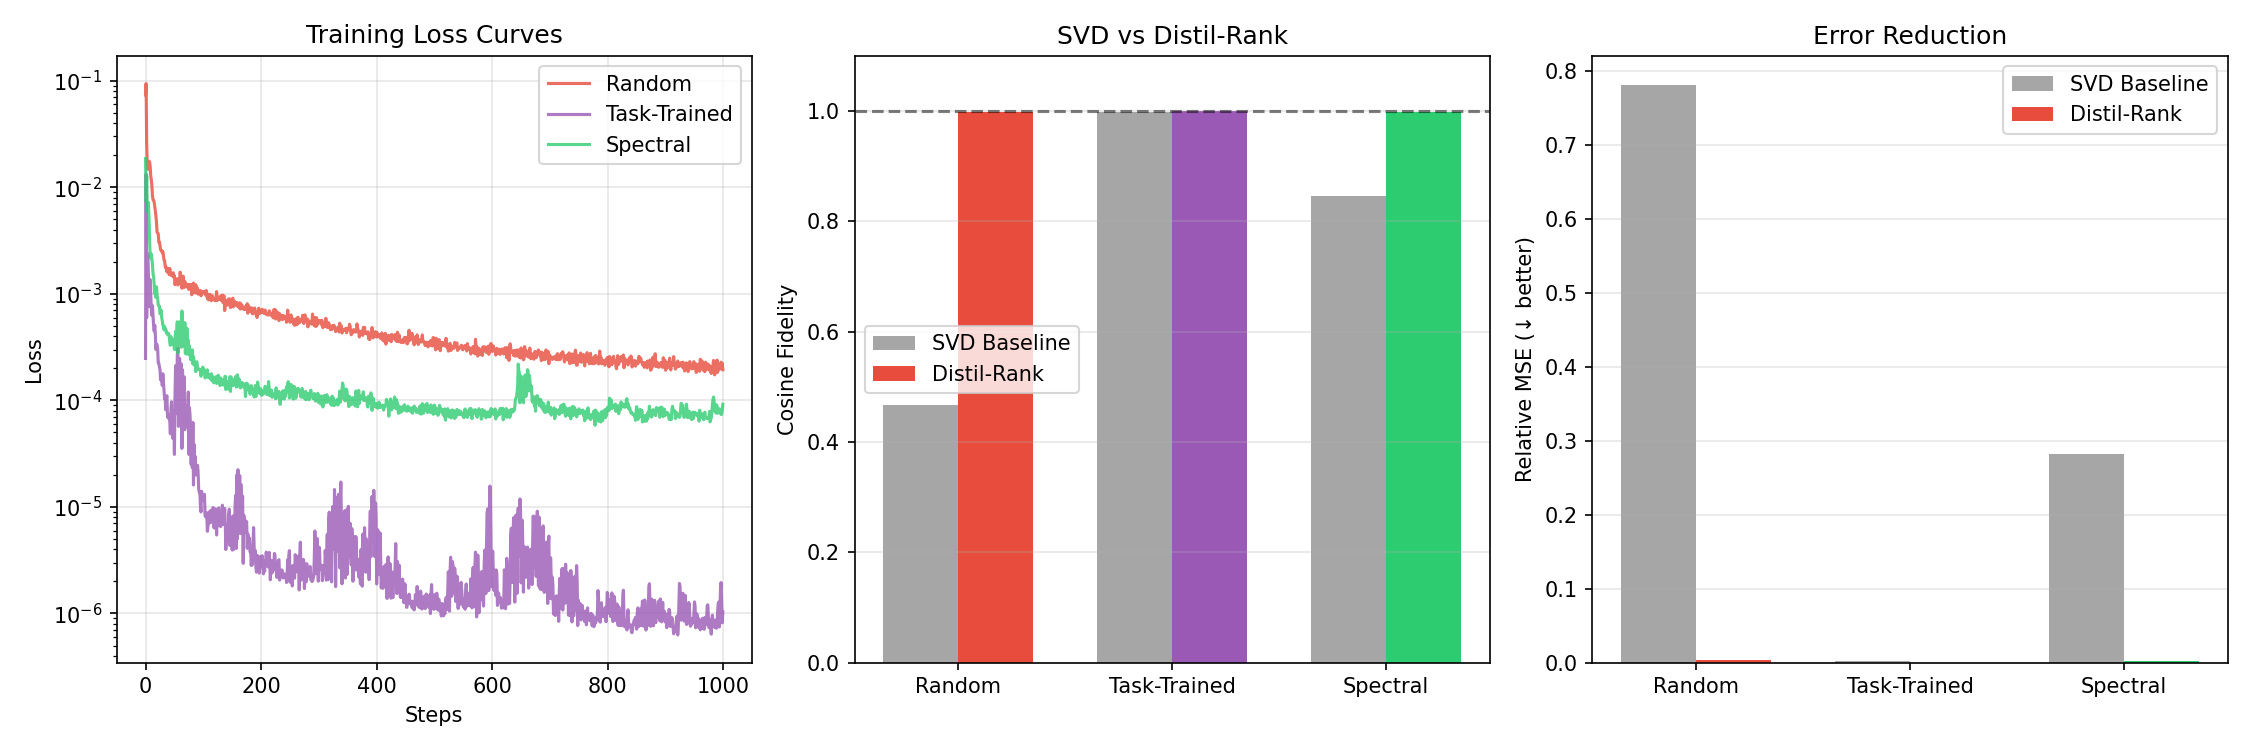
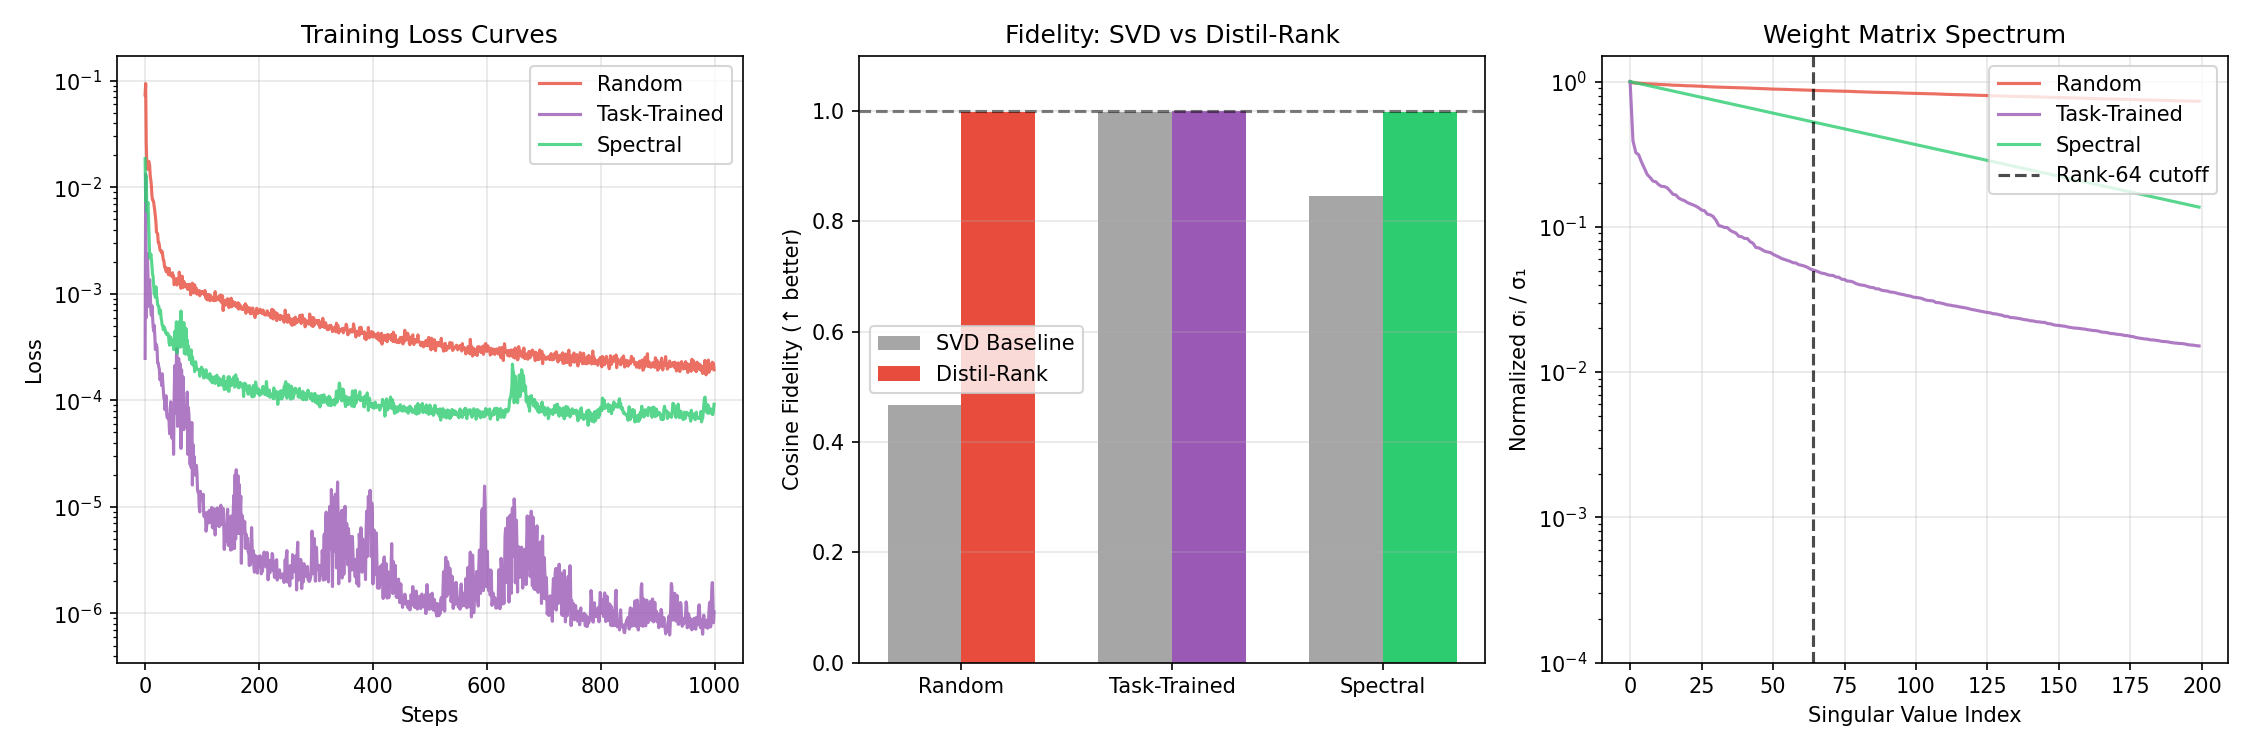
Improve visualization: replace MSE panel with singular value spectrum
- Add weight matrix spectrum plot showing spectral decay patterns
- Explains WHY SVD works well for task-trained (sharp decay) vs random (flat)
- Remove redundant MSE reduction panel
- Update README with spectrum plot insight

diff --git a/main.py b/main.py
@@ -227,6 +227,10 @@ def run_experiment(name, teacher, x_val, get_batch, input_dim, output_dim):
     print(f"Speedup: {lat_t/lat_s:.1f}x | Compression: {params_t/params_s:.1f}x")
     print("-" * 45)
     
+    # Get full singular value spectrum for analysis
+    W = teacher.weight.data
+    _, S_full, _ = torch.linalg.svd(W, full_matrices=False)
+    
     return {
         "svd_cosine": svd_result['cosine'],
         "svd_rel_mse": svd_result['rel_mse'],
@@ -241,6 +245,7 @@ def run_experiment(name, teacher, x_val, get_batch, input_dim, output_dim):
         "params_student": params_s,
         "compression": params_t / params_s,
         "history": history,
+        "singular_values": S_full.numpy(),
     }
 
 
@@ -325,11 +330,13 @@ def main():
     # --- Save Results ---
     os.makedirs(OUT_DIR, exist_ok=True)
     
+    # Exclude non-serializable fields (history, singular_values)
     results_json = {
         "real_data": use_real_data,
         "target_rank": TARGET_RANK,
         "input_dim": input_dim,
-        "experiments": {k: {kk: vv for kk, vv in v.items() if kk != "history"} 
+        "experiments": {k: {kk: vv for kk, vv in v.items() 
+                           if kk not in ("history", "singular_values")} 
                        for k, v in all_results.items()},
     }
     with open(os.path.join(OUT_DIR, "distil_rank_summary.json"), "w") as f:
@@ -350,7 +357,7 @@ def main():
     axes[0].legend()
     axes[0].grid(True, alpha=0.3)
     
-    # Panel 2: Cosine Fidelity Comparison
+    # Panel 2: Cosine Fidelity Comparison (side-by-side bars)
     strategies = list(all_results.keys())
     x_pos = np.arange(len(strategies))
     width = 0.35
@@ -364,23 +371,28 @@ def main():
     axes[1].set_xticks(x_pos)
     axes[1].set_xticklabels(strategies)
     axes[1].set_ylim(0, 1.1)
-    axes[1].set_ylabel("Cosine Fidelity")
-    axes[1].set_title("SVD vs Distil-Rank")
+    axes[1].set_ylabel("Cosine Fidelity (↑ better)")
+    axes[1].set_title("Fidelity: SVD vs Distil-Rank")
     axes[1].legend()
     axes[1].grid(True, alpha=0.3, axis='y')
     
-    # Panel 3: Relative MSE Comparison (lower is better)
-    svd_mse = [all_results[s]['svd_rel_mse'] for s in strategies]
-    stu_mse = [all_results[s]['student_rel_mse'] for s in strategies]
+    # Panel 3: Singular Value Spectrum (explains WHY results differ)
+    for name in strategies:
+        S = all_results[name]['singular_values']
+        # Normalize to show relative decay
+        S_norm = S / S[0]
+        axes[2].plot(S_norm[:200], label=name, color=colors[name], linewidth=1.5, alpha=0.8)
     
-    axes[2].bar(x_pos - width/2, svd_mse, width, label='SVD Baseline', color='gray', alpha=0.7)
-    axes[2].bar(x_pos + width/2, stu_mse, width, label='Distil-Rank', color=[colors[s] for s in strategies])
-    axes[2].set_xticks(x_pos)
-    axes[2].set_xticklabels(strategies)
-    axes[2].set_ylabel("Relative MSE (↓ better)")
-    axes[2].set_title("Error Reduction")
-    axes[2].legend()
-    axes[2].grid(True, alpha=0.3, axis='y')
+    # Mark the truncation point
+    axes[2].axvline(x=TARGET_RANK, color='black', linestyle='--', alpha=0.7, 
+                    label=f'Rank-{TARGET_RANK} cutoff')
+    axes[2].set_xlabel("Singular Value Index")
+    axes[2].set_ylabel("Normalized σᵢ / σ₁")
+    axes[2].set_title("Weight Matrix Spectrum")
+    axes[2].set_yscale('log')
+    axes[2].set_ylim(1e-4, 1.5)
+    axes[2].legend(loc='upper right')
+    axes[2].grid(True, alpha=0.3)
     
     plt.tight_layout()
     plt.savefig(os.path.join(OUT_DIR, "distil_rank_final_report.png"), dpi=150)

diff --git a/README.md b/README.md
@@ -30,6 +30,8 @@ Tested on projection layers operating on embeddings from the **ESM-2 (650M)** mo
 - **Random Teacher**: Demonstrates distillation's power—even arbitrary projections achieve near-perfect recovery.
 - **Spectral Decay**: Simulates realistic singular value decay patterns found in trained neural networks.
 
+The **singular value spectrum plot** (right panel) reveals why: task-trained weights have sharp spectral decay (energy concentrated in top components), while random weights have flat spectra requiring distillation to recover fidelity.
+
 ## Mathematical Foundations
 This approach combines linear algebra with neural knowledge distillation.
 
